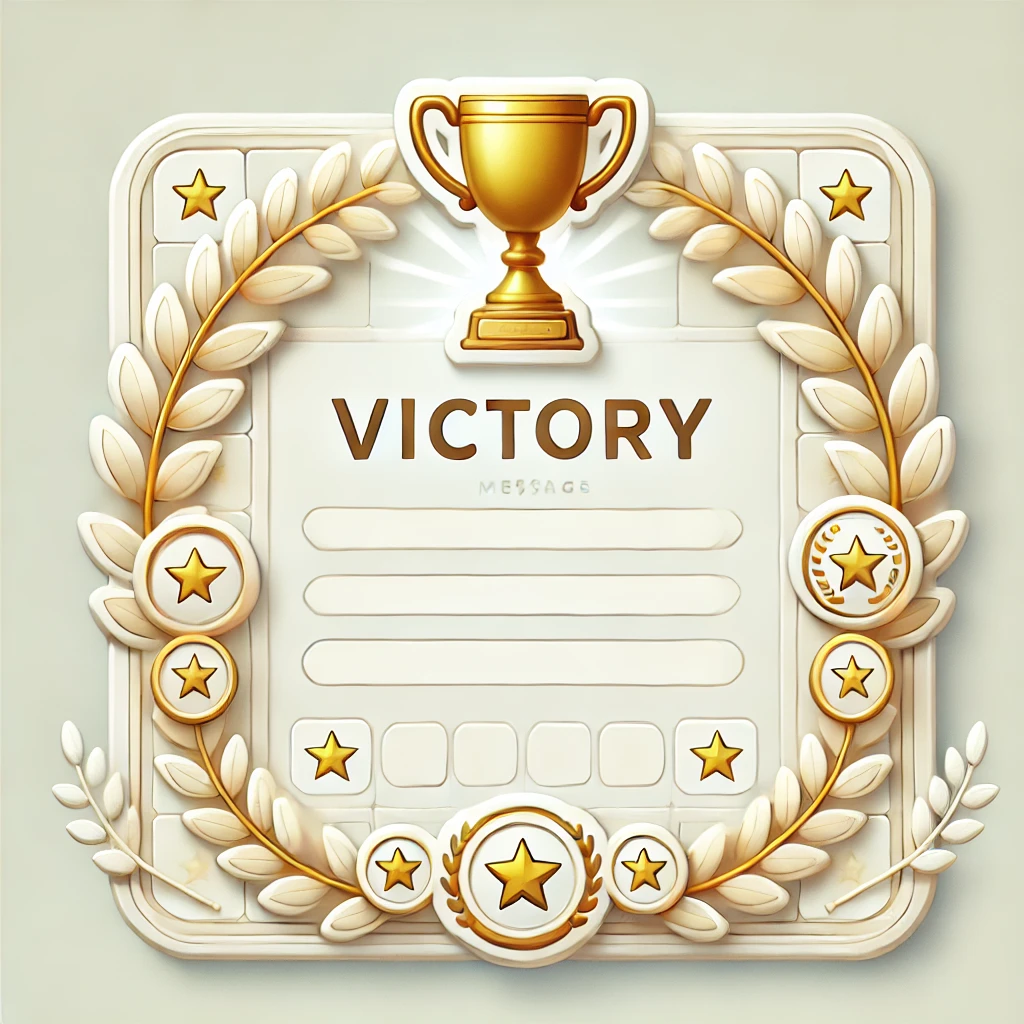
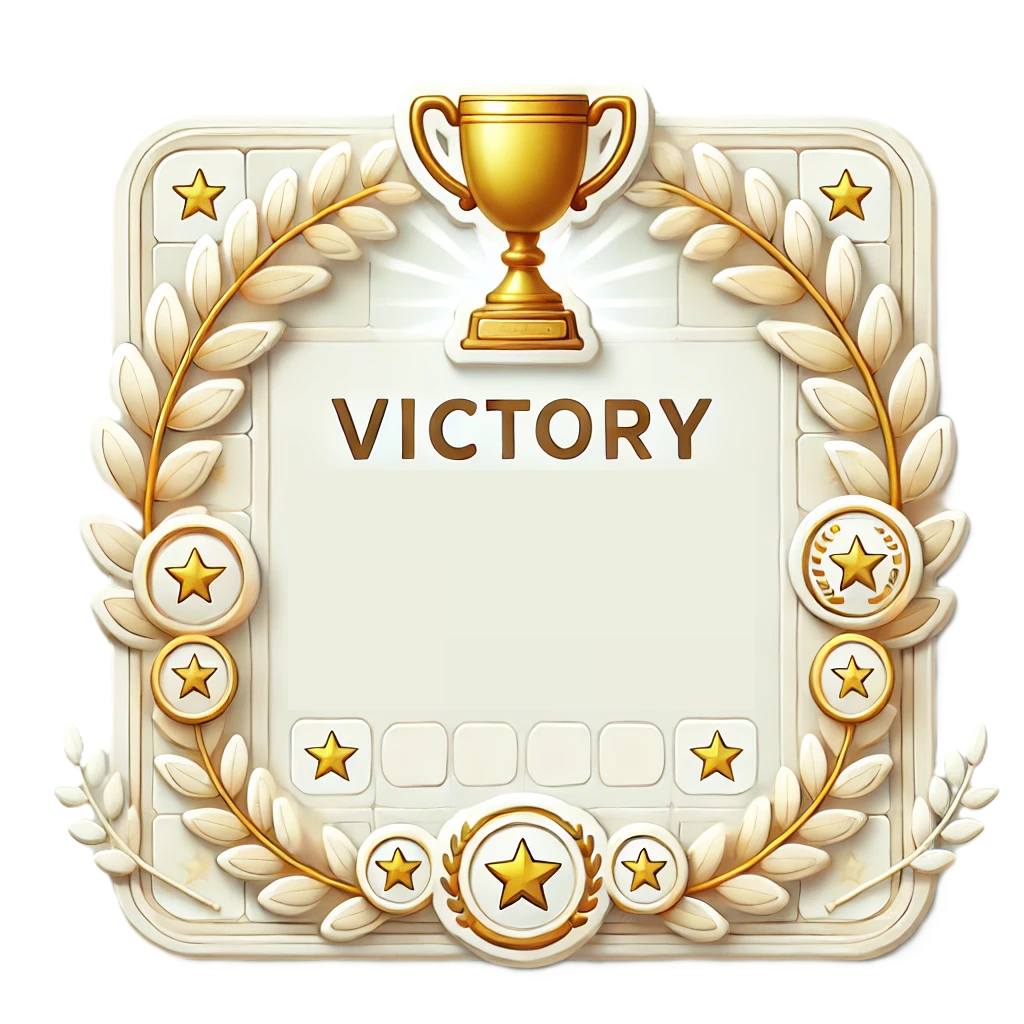
memory Game And winning msg complete- need to do leave button, merge all proj and verify jwt on chat

diff --git a/frontend/vite-project/src/Page/MemoryGamePage/ContainerCardsGame.jsx b/frontend/vite-project/src/Page/MemoryGamePage/ContainerCardsGame.jsx
@@ -1,10 +1,10 @@
 import React, { useEffect, useState } from 'react'
 import MemoryCard from '../MemoryCard/MemoryCard.jsx';
-import memoryGameOver from '../../Components/memoryGameOver.jsx';
+import MemoryGameOver from '../../Components/memoryGameOver.jsx';
 import './ContainerCardsGame.css';
 import { socket } from '../../../utils/socket.js';
 import { useNavigate } from 'react-router-dom';
-const ContainerCardsGame = ({players,cards,wantToLeave,currentUser}) => {
+const ContainerCardsGame = ({players,cards,sameUsersPlayTwice,currentUser}) => {
 
   const navigate=useNavigate();
   const [winningMessage, setWinningMessage] = useState("");
@@ -25,7 +25,7 @@ const ContainerCardsGame = ({players,cards,wantToLeave,currentUser}) => {
 
         cardsArr[card1Index] = card1;
         cardsArr[card2Index] = card2;
-        setCardsArr([...cardsArr]);
+        setCardsArr(cardsArr);
         if(card1.status.includes("wrong") && card2.status.includes("wrong"))
         {
           setTimeout(()=>{
@@ -38,7 +38,7 @@ const ContainerCardsGame = ({players,cards,wantToLeave,currentUser}) => {
         else {
           setPrevCard(null);
           increaseScore();
-          setCardsArr([...cardsArr]);
+          setCardsArr(cardsArr);
         }
         setTurn(turn===player1 ? player2:player1); 
       })
@@ -58,7 +58,7 @@ const ContainerCardsGame = ({players,cards,wantToLeave,currentUser}) => {
       cardsArr[card1Index].status =  'active correct';
       cardsArr[card2Index].status = 'active correct';
       increaseScore();
-      checkWinner();
+      setTimeout(()=>checkWinner(),0);
       setCardsArr(cardsArr);
       //--- until here in thw server
     }
@@ -80,21 +80,23 @@ const ContainerCardsGame = ({players,cards,wantToLeave,currentUser}) => {
   }
 
   const anotherGame=()=>{
-       socket.on("anotherGame",()=>{
-
-          setWinningMessage("");
-          setCardsArr(shuffledCardsArray(cardsArr));
-          setPrevCard(-1);
-          setTurn(player1);
-          setPlayer1({...player1, score:0});
-          setPlayer2({...player2, score:0});
-          setCountSelectedCards(0);
-       })
-       socket.emit("newGame");
+    socket.on("anotherGame",()=>{
+      setWinningMessage("");
+      setCardsArr(shuffledCardsArray(cardsArr));
+      setPrevCard(-1);
+      setTurn(player1);
+      setPlayer1({...player1, score:0});
+      setPlayer2({...player2, score:0});
+      setCountSelectedCards(0);
+      sameUsersPlayTwice();
+    })
+    socket.emit("newGame");
+      
   }
   const gameOver=()=>{
     socket.on("exitFromGame",()=>{
-      setMessage
+      player1.inTheGame=false;
+      player2.inTheGame=false;
       navigate("/");
     })
     if(player1.inTheGame && player2.inTheGame)
@@ -104,7 +106,9 @@ const ContainerCardsGame = ({players,cards,wantToLeave,currentUser}) => {
   }
   const checkWinner=()=>{
     socket.on("gameOverMessage",(msg)=>{
+      console.log(msg+ "change the state winningMessage");
       setWinningMessage(msg);
+      setTimeout(()=>console.log(msg+ "is the message after set"),0);
     })
     socket.emit("gameOver", {player1,player2});
 }
@@ -151,15 +155,17 @@ const ContainerCardsGame = ({players,cards,wantToLeave,currentUser}) => {
           </div>
        </div>
 
-        {winningMessage ? (
-          <memoryGameOver msgResult={winningMessage} anotherGame={anotherGame} leaveGame={gameOver}/>
-         ) :   null}
+        {winningMessage && (
+          <MemoryGameOver msgResult={winningMessage} anotherGame={anotherGame} leaveGame={gameOver}/>
+         )}
           
-
+          {!player1.inTheGame || !player2.inTheGame && (
+            <div className='leaveGameMsg'>The other player leave the game...👋🤝</div>
+          )}
 
         <div className='gameBoard'>
           {cardsArr.map((card,index) =>(
-            <MemoryCard key={index} currentCard={card} indexCard={index} onClickCard={ (turn.id==currentUser.id) ? handleClick : null}/>
+            <MemoryCard key={index} currentCard={card} indexCard={index} onClickCard={ (turn.id==currentUser.id) ? handleClick :{}}/>
           ))}
         </div>
     </div>

diff --git a/frontend/vite-project/src/Components/memoryGameOver.css b/frontend/vite-project/src/Components/memoryGameOver.css
@@ -1,36 +1,46 @@
-.victoryImg{
-    background-image: url("../assets/Images/cardsImg/victoryImg.png");
-    width: 300px;
-    height: 400px;
+.victoryImg img{
+    /* background-image: url("../assets/Images/cardsImg/victoryImg.png"); */
+    position: absolute;
+    width: 600px;
+    height: 500px;
+    /* background-size: cover; */
     display: flex;
     align-items: center;
     justify-content: center;
+    transition: transform 0.5s;
+    transform: scale(1);
+    z-index: 1000;
+    top:30vh;
+    left: 30vw;
+}
 
-}
-.messageBox{
-    background-color:cadetblue 0.5%;
+.winnerMsgBody{
+    position: absolute;
+    display: flex;
+    flex-direction: column;
     color: black;
+    font-weight: bold;
+    font-family: 'Franklin Gothic Medium', 'Arial Narrow', Arial, sans-serif;
     font-size: larger;
-    width: 25vw;
-    height: 200px;
-    border-radius: 10%;
     text-align: center;
-    align-items: center;
-    justify-content: center;
-    padding: 20px;
-    z-index: 1;
+    top:60vh;
+    left: 38vw;
+    padding: 10px;
+    z-index: 1000;
 }
-.winnerMsg{
-    background-color: rgb(131, 240, 131, 0.5);
-    box-shadow: rgb(168, 167, 167) 1px 1px;
-    color: black;
-    font-size: larger;
-    width: 25vw;
-    height: 200px;
-    border-radius: 10%;
-    text-align: center;
-    align-items: center;
-    justify-content: center;
-    padding: 20px;
-    z-index: 1;
+.btnsContainer{
+    display: flex;
+    flex-direction: row;
+    justify-content: space-around;
+    width: 100%;
+    margin-top: 20px;
+    padding: 10px;
+    gap:20px
+}
+.btnsContainer button{
+    background-color: rgb(223, 199, 93);
+    color:rgba(110, 61, 61);
+    width: fit-content;
+    height: 30px;
+    border-radius: 20%;
 }

diff --git a/frontend/vite-project/src/Page/MemoryGamePage/MemoryGame.jsx b/frontend/vite-project/src/Page/MemoryGamePage/MemoryGame.jsx
@@ -38,12 +38,21 @@ const MemoryGamePage = () => {
       //     setTimeout(setMessageShow(""),3000);
       //   })
       // }
-      
-      
-  // useEffect(() => {
-  //   if(messageShow==="Game started"){
-  //   }
-  // }, [messageShow]);
+      const sameUsersPlayTwice=()=>{
+        socket.on('playerJoined',(arr) => {
+          const message=arr[0]
+          const participents=arr[1];
+          setMessageShow(message);
+          setParticipantsArr(participents);
+          setMemoryCardsArr(shuffledCardsArray);
+          setIsLoading(false);
+        });
+        // socket.emit("joinGame",{user,chatId});
+        socket.emit("joinGame",user);
+        return () => {
+          socket.off('playerJoined');
+        }
+      }
   return (
     <div>
        { isLoading ? 
@@ -57,7 +66,7 @@ const MemoryGamePage = () => {
                   {messageShow}
                 </div>
                   <div className='MemoryGamePage'>
-                      <ContainerCardsGame players={participantsArr} wantToLeave={""} cards={memoryCardsArr} currentUser={user}/>
+                      <ContainerCardsGame players={participantsArr} wantToLeave={""} sameUsersPlayTwice={sameUsersPlayTwice} cards={memoryCardsArr} currentUser={user}/>
                   </div>
             </div> )
            : 

diff --git a/backend/sockets/MomoryGameSocketHandler.js b/backend/sockets/MomoryGameSocketHandler.js
@@ -42,11 +42,13 @@ export const socketHandler = (io, socket, user, chatId) => {
     //----------------------------------------------------------------
     socket.on("sendSelectedCards",({card1,card2,turn})=>{
         socket.broadcast.to(chatId).emit("enemyMove",{card1,card2,turn});
-      })
+    })
 
-    socket.on("gameOver",({player1}, {player2})=>{
-         if(player1.score+player2.score==20 )
+    socket.on("gameOver",({player1, player2})=>{
+        console.log("player1 score: " + player1.score + ", player2 score: " + player2.score);
+         if(player1.score+player2.score===18 )
         {   
+            console.log("enter game over");
             var msg="";
             if(player1.score>player2.score)
             {
@@ -57,6 +59,7 @@ export const socketHandler = (io, socket, user, chatId) => {
                msg=`${player2.userName} is the winner!`;
             }
             else {msg="It's a tie! want to play another game?";}
+            console.log(msg);
             io.to(chatId).emit("gameOverMessage",msg);
         }
     })
@@ -71,5 +74,6 @@ export const socketHandler = (io, socket, user, chatId) => {
     })
     socket.on("leaveGame",()=>{
         io.to(chatId).emit("exitFromGame");
+        delete rooms[chatId];
     })
 }

diff --git a/frontend/vite-project/src/Components/memoryGameOver.jsx b/frontend/vite-project/src/Components/memoryGameOver.jsx
@@ -1,18 +1,19 @@
 import React from 'react'
-
-const memoryGameOver = (msgResult,anotherGame,leaveGame) => {
+import './memoryGameOver.css'
+const MemoryGameOver = ({msgResult,anotherGame,leaveGame}) => {
 
   return (
     <div className='victoryImg'>
-         <div className={'messageBox '+"winnerMsg"}>
-            {msgResult}
-            <div>
-                <button onClick={()=>anotherGame}>Another Game</button>
-                <button onClick={()=>leaveGame}>Leave</button>
+      <img src="src/assets/Images/cardsImg/victoryImg.png" alt="victory" className='img' />
+         <div className="winnerMsgBody">
+          <div style={{fontStyle:'oblique', fontSize:'30px', fontWeight:'bolder', color:'green'}}>{msgResult}</div>
+            <div className='btnsContainer'>
+                <button onClick={()=>anotherGame()}>Another Game</button>
+                <button onClick={()=>leaveGame()}>Leave the Game</button>
             </div>
         </div>
     </div>
   )
 }
 
-export default memoryGameOver
+export default MemoryGameOver

diff --git a/frontend/vite-project/src/Page/MemoryGamePage/ContainerCardsGame.css b/frontend/vite-project/src/Page/MemoryGamePage/ContainerCardsGame.css
@@ -30,6 +30,7 @@
 .gameBoard{
     display: grid;
     /* flex-wrap: wrap; */
+    position: relative;
     justify-content:center;
     align-items: center;
     margin-left: 25%;
@@ -54,6 +55,22 @@
 }
 .redBorder{
     border: 6px solid black;
-    
-   
+}
+.leaveGameMsg{
+    top:50vh;
+    left: 50vw;
+    position: fixed;
+    transform: translate(-50%, -50%);
+    width: 500px;
+    height: 200px;
+    align-items: center;
+    justify-content: center;
+    background-color:  rgba(0, 0, 0, 0.8);
+    box-shadow: 2px;
+    opacity: 3px;
+    font-size: 50px;
+    z-index: 1000;
+    color: red;
+    font-weight: bold;
+    font-family: 'Franklin Gothic Medium', 'Arial Narrow', Arial, sans-serif;
 }

diff --git a/frontend/vite-project/src/Page/MemoryGamePage/MemoryGame.css b/frontend/vite-project/src/Page/MemoryGamePage/MemoryGame.css
@@ -36,7 +36,7 @@
     z-index: 1000;
 }
 .hideMessage{
-    animation: fadeOut 1.0s forwards linear;
+    animation: fadeOut 3.0s forwards linear;
     width: 0;
     height: 0;
 }
